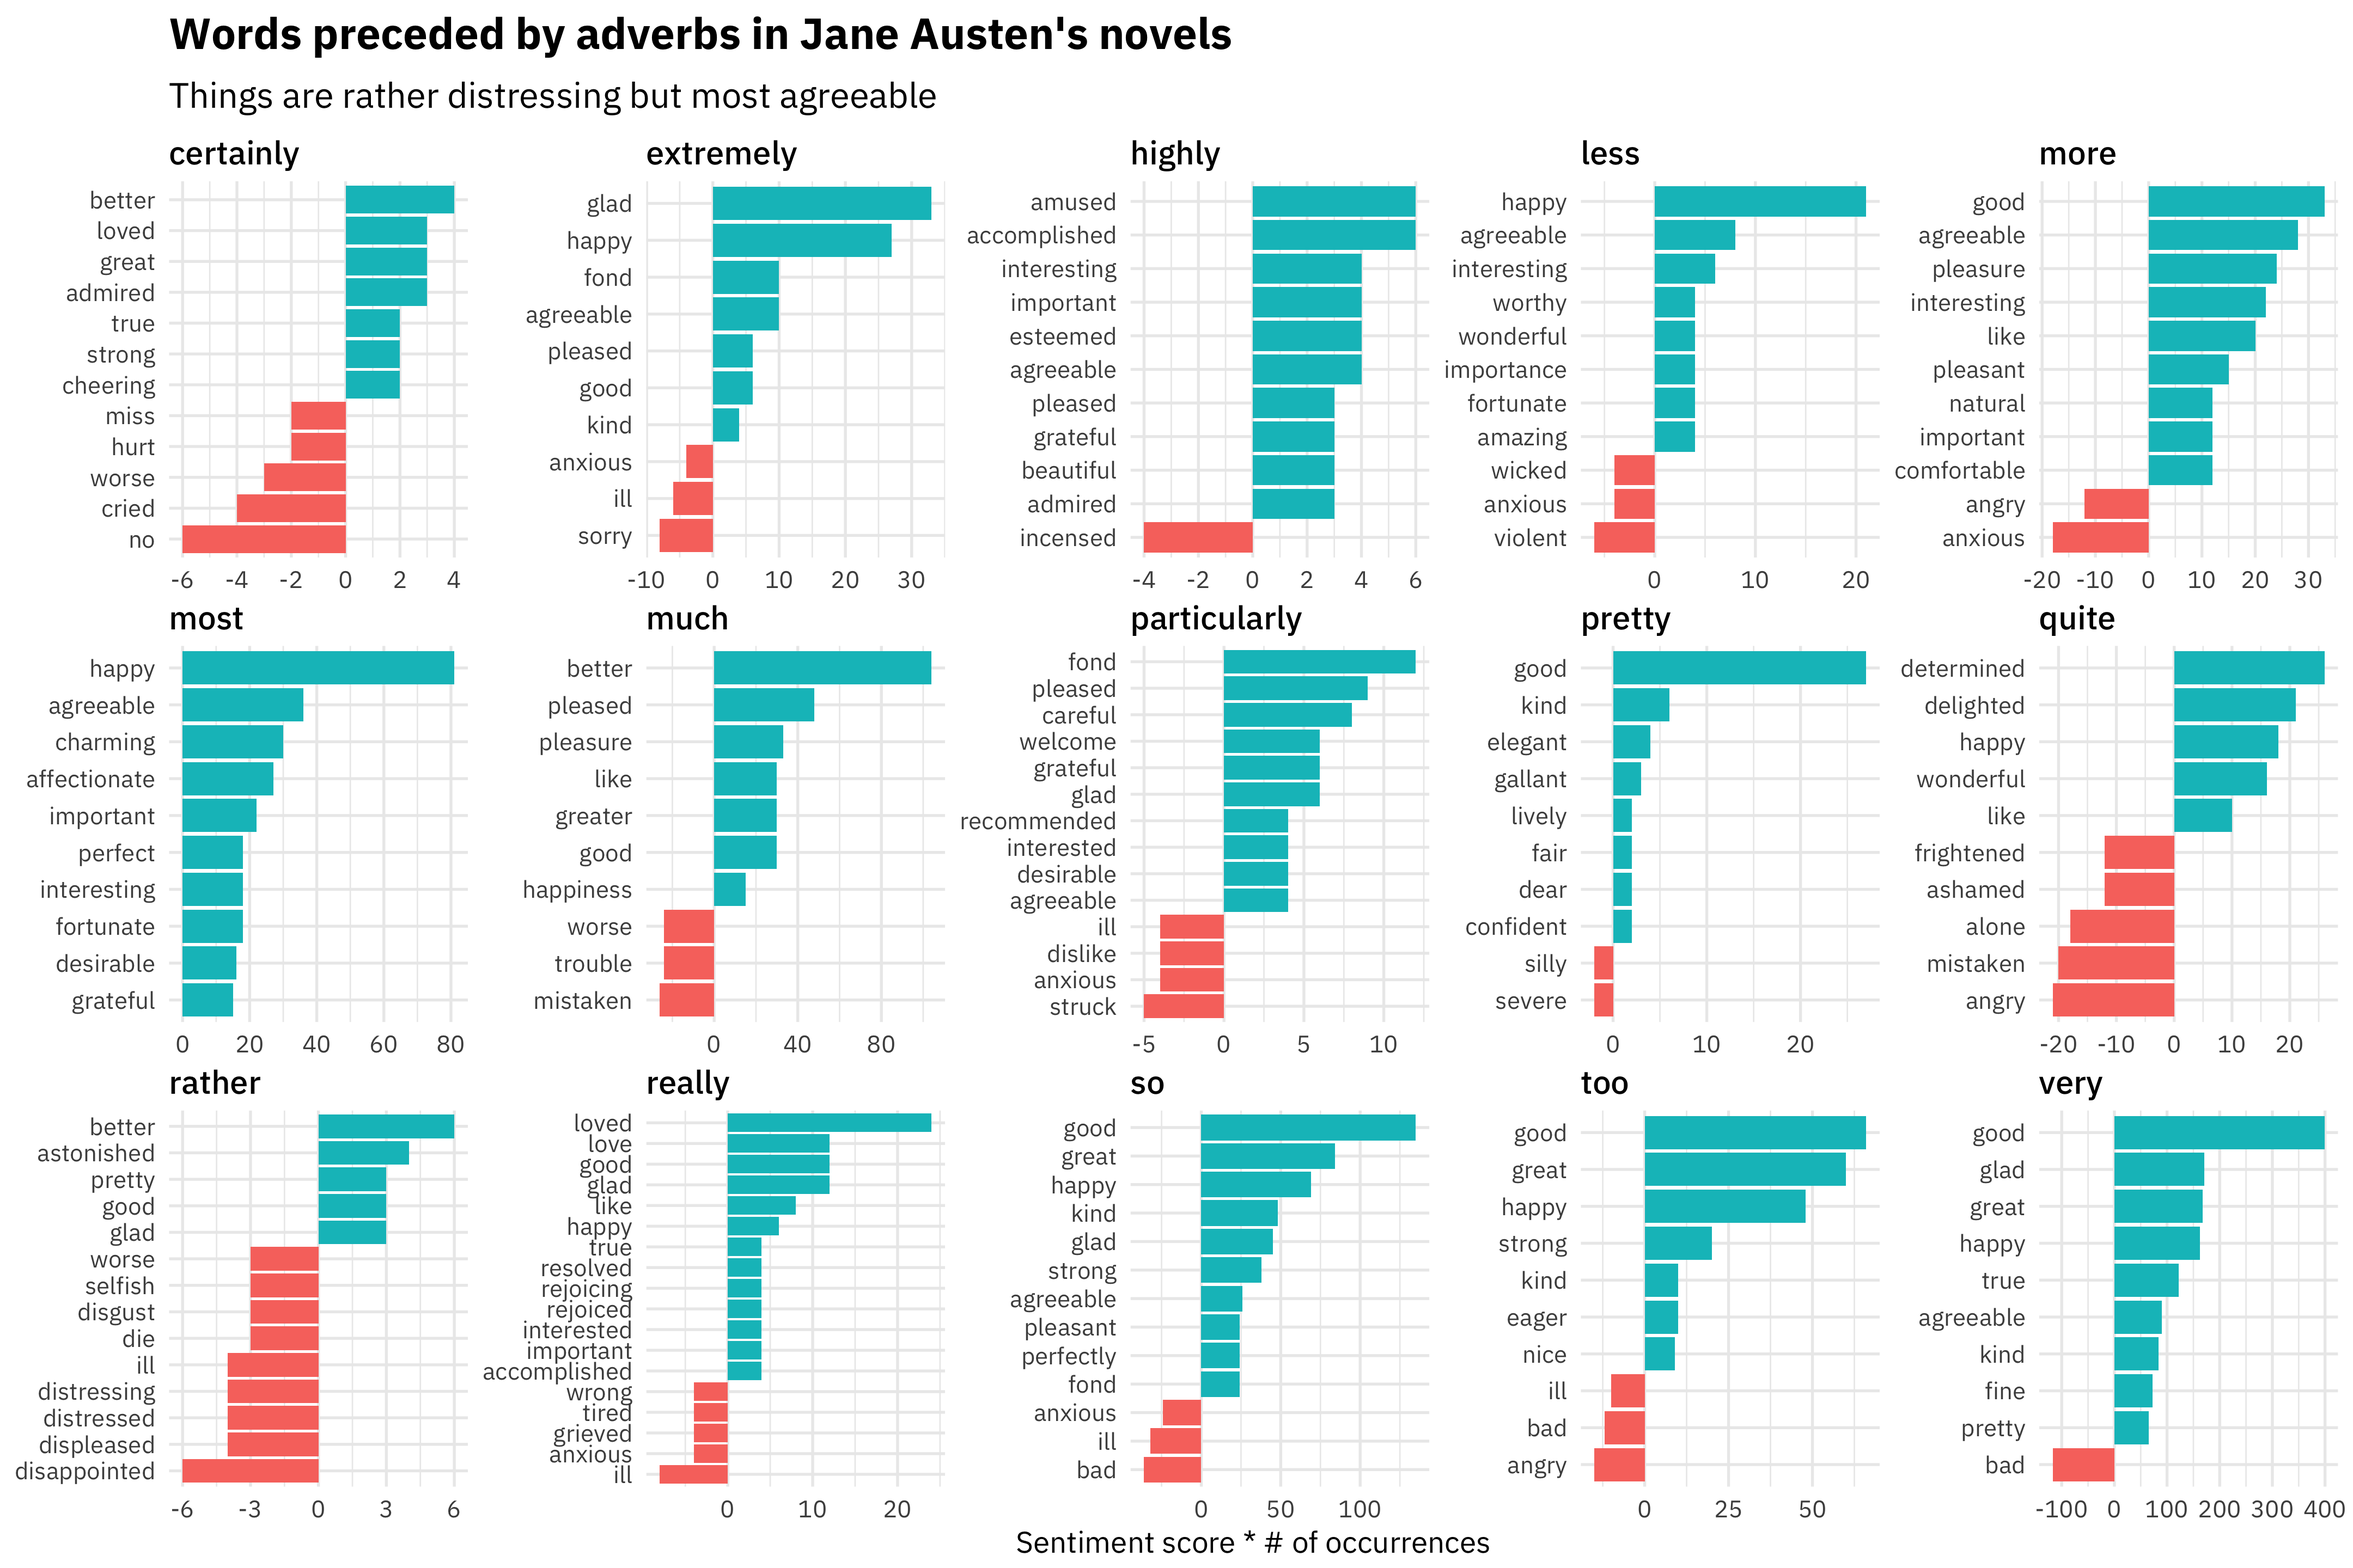
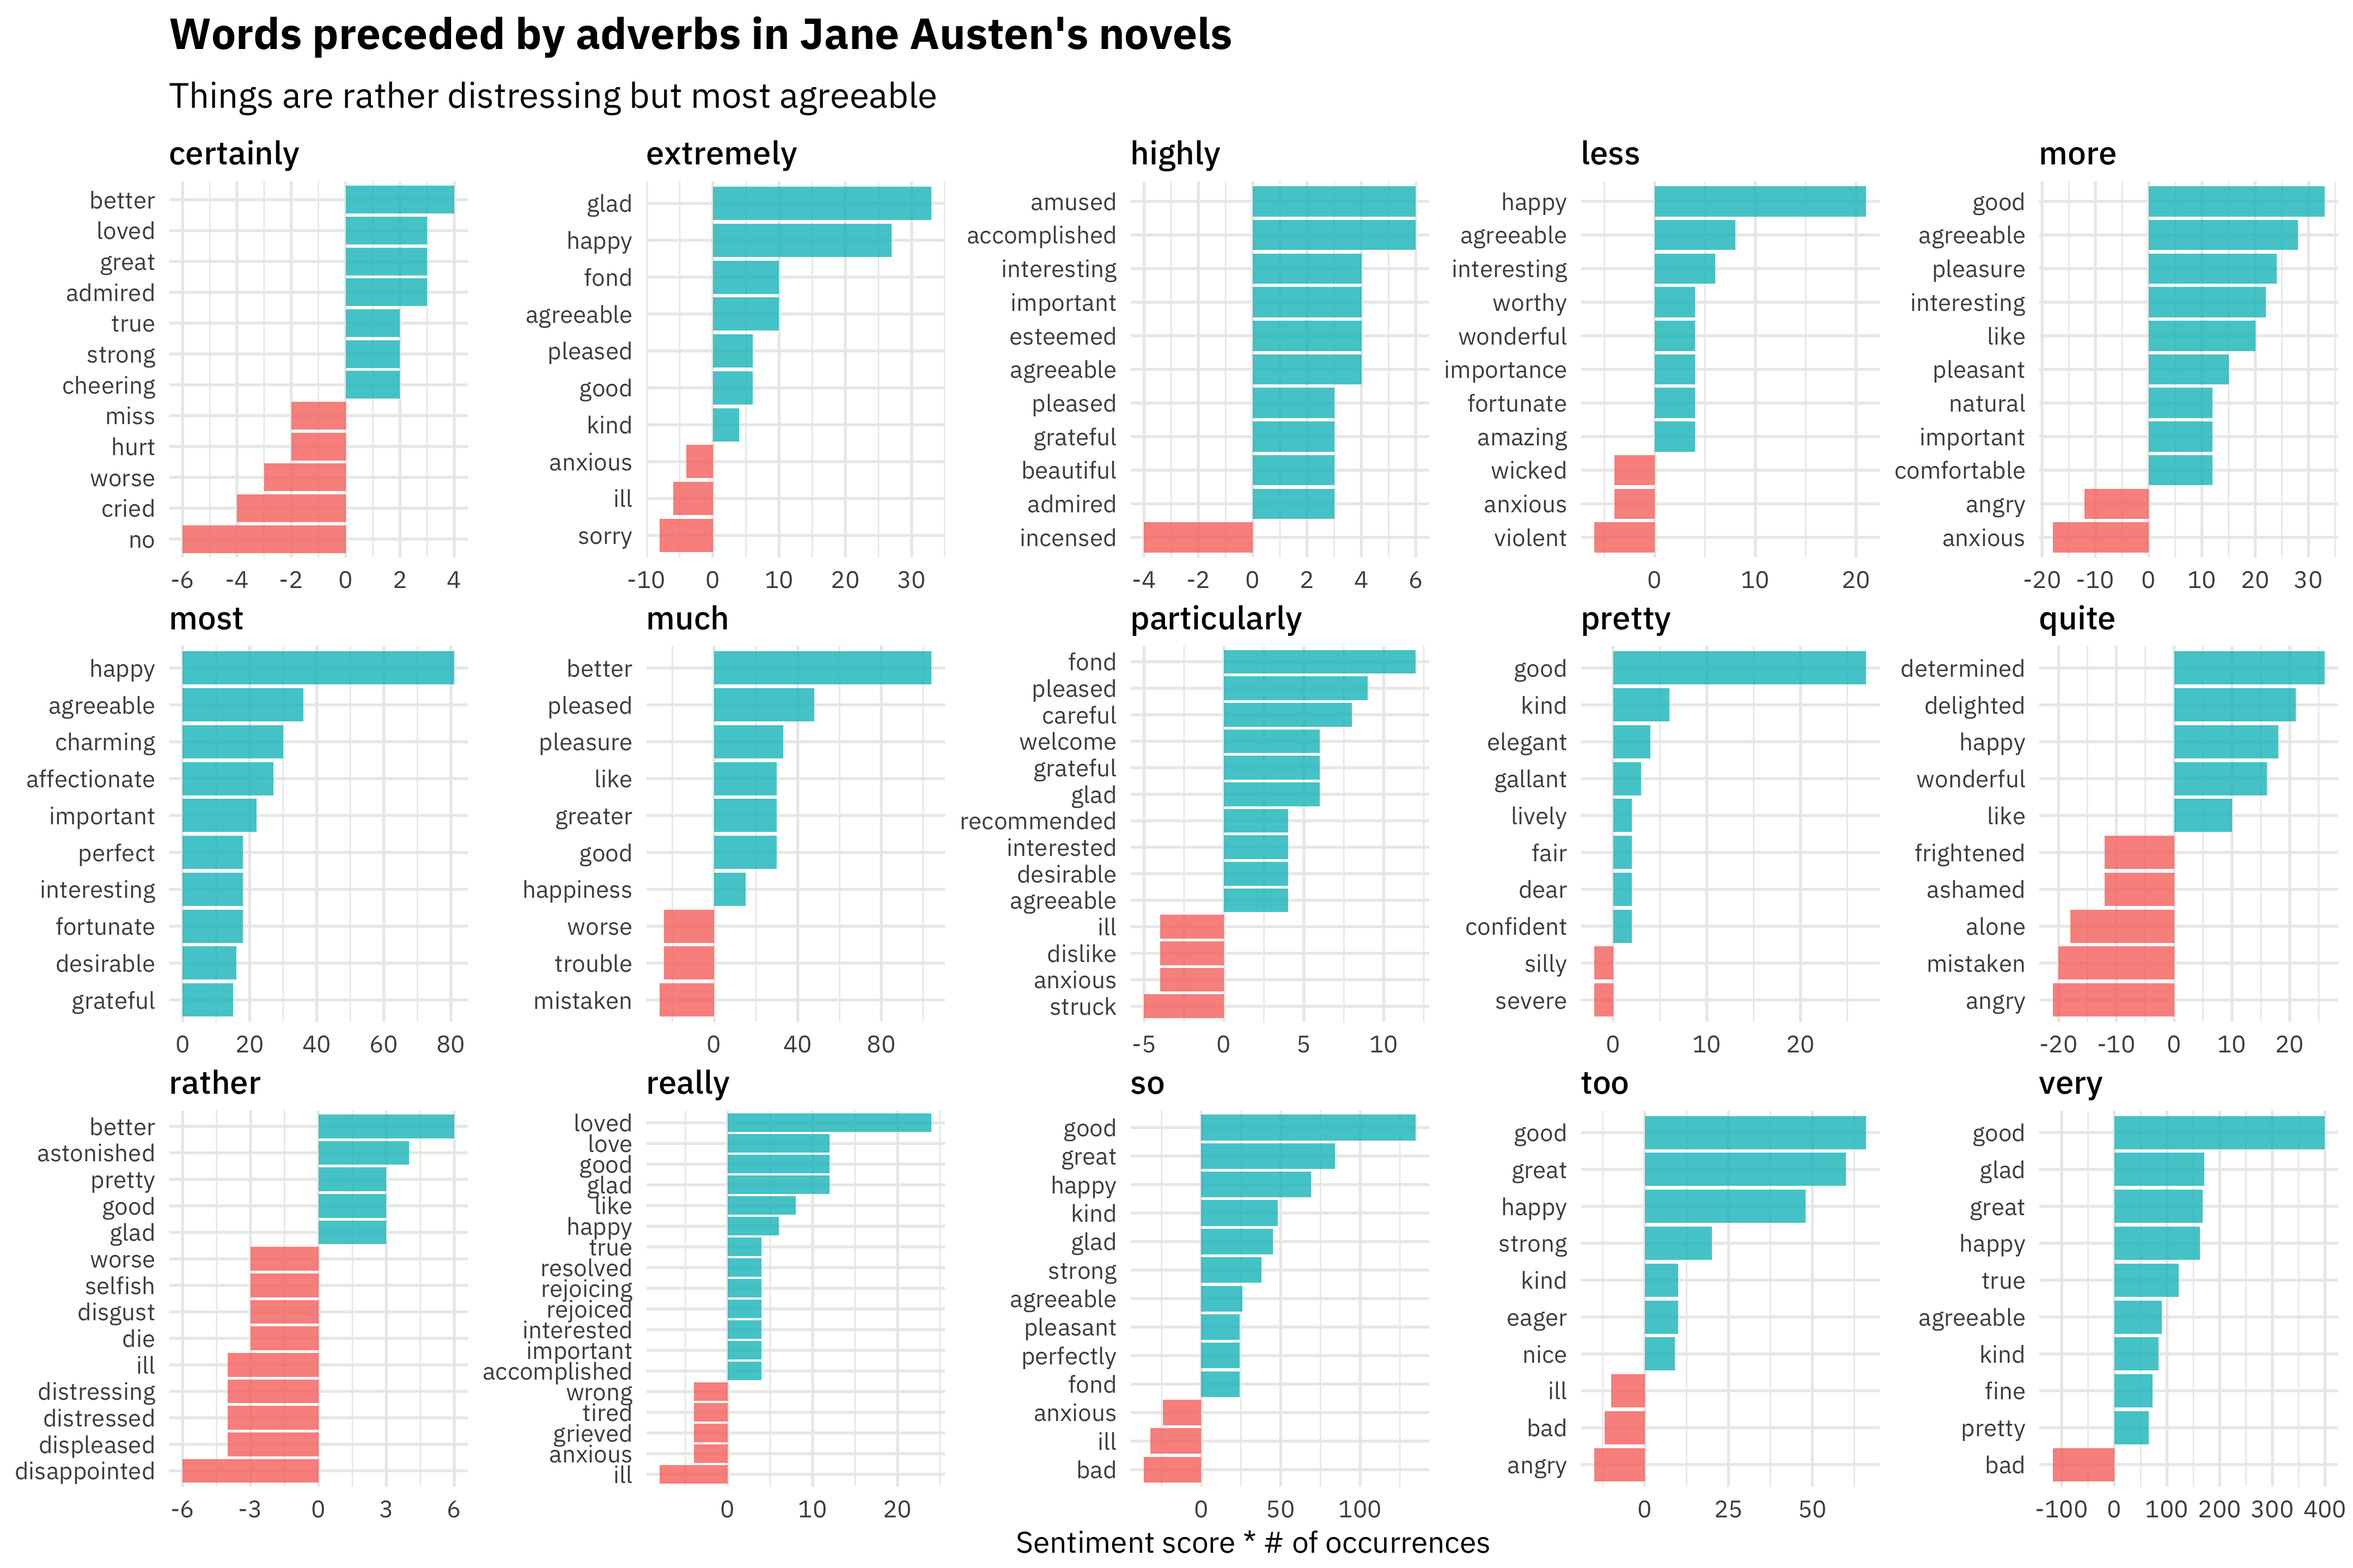
Update last plot

diff --git a/content/blog/2018/2018-01-10-tidytext-0-1-6.html b/content/blog/2018/2018-01-10-tidytext-0-1-6.html
@@ -159,7 +159,7 @@ austen_bigrams %&gt;%
     ungroup() %&gt;%
     mutate(word2 = reorder(paste(word2, word1, sep = &quot;__&quot;), contribution)) %&gt;%
     ggplot(aes(word2, contribution, fill = contribution &gt; 0)) +
-    geom_col(show.legend = FALSE) +
+    geom_col(alpha = 0.8, show.legend = FALSE) +
     facet_wrap(~ word1, scales = &quot;free&quot;, nrow = 3) +
     scale_x_discrete(labels = function(x) gsub(&quot;__.+$&quot;, &quot;&quot;, x)) +
     coord_flip() +
